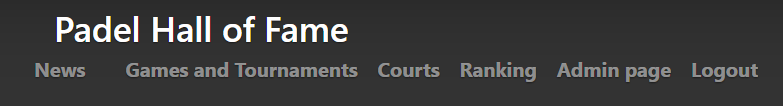
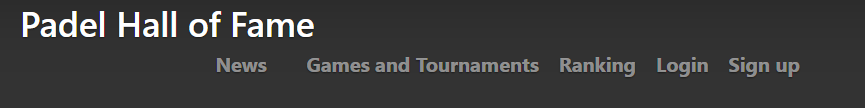
Fix documentation and style

Changed region(s): [[0.1533, 0.5094, 0.9808, 0.7925], [0.0, 0.0849, 0.4598, 0.3962], [0.0307, 0.5943, 0.1226, 0.7358]]

diff --git a/application/templates/tournaments/list.html b/application/templates/tournaments/list.html
@@ -32,16 +32,16 @@
        </form>
       </td>
       <td>
-        {% if 'Admin' in current_user.roles[0].name and current_user.id != tournament.account_id %}
+        {% if 'Admin' in current_user.roles[0].name %}
         <form method="POST" action="{{ url_for('tournaments_remove', tournament_id=tournament.id) }}">
           <input type="submit" value="Remove tournament"/>
         </form>
-        {% endif %}
-        {% endif %}
+        {% else %}
         {% if current_user.id == tournament.account_id and tournament.players|length != tournament.playerCount %}
         <form method="POST" action="{{ url_for('tournaments_remove', tournament_id=tournament.id) }}">
           <input type="submit" value="Remove tournament"/>
         </form>
+        {% endif %}
         {% endif %}
       </td>
       <td>
@@ -58,6 +58,7 @@
         {% endif %}
       </td>
     </tr>
+    {% endif %}
     {% endfor %}
   </table>
 {% endblock %}

diff --git a/application/templates/tournaments/single.html b/application/templates/tournaments/single.html
@@ -13,6 +13,11 @@
 
 <div id="divdefault" class="text-center">
   <h1>{{ tournament.name }}</h1>
+  <h2>Players joined</h2>
+  <p>{{ tournament.players|length }} / {{ tournament.playerCount }}</p>
+  {% for player in players %}
+  {{ player.name }}
+  {% endfor %}
   <h2>Games</h2>
   <table>
     <tr>

diff --git a/application/games/views.py b/application/games/views.py
@@ -32,12 +32,25 @@ def games_set_done(game_id):
 def games_set_score(game_id):
 
     form = GameResultForm(request.form)
-
     game = Game.query.get(game_id)
-    game.done = True
-    game.score1 = form.score1.data
-    game.score2 = form.score2.data
-    db.session().commit()
+    games = Game.query.all()
+    playerIds = Game.find_players_in_single_game(game_id)
+
+    if 'Admin' != current_user.roles[0].name:
+        if len(game.players) != game.playerCount or current_user.id not in playerIds:
+            return render_template("games/single.html", game = game, form = form, games=games)
+        else:
+            game.done = True
+            game.score1 = form.score1.data
+            game.score2 = form.score2.data
+            db.session().commit()
+    else:
+        if len(game.players) != game.playerCount:
+            return render_template("games/single.html", game = game, form = form, games=games)
+        game.done = True
+        game.score1 = form.score1.data
+        game.score2 = form.score2.data
+        db.session().commit()
   
     return redirect(url_for("games_index"))
 
@@ -46,12 +59,12 @@ def games_set_score(game_id):
 def games_join(game_id):
 
     game = Game.query.get(game_id)
-    
     user = User.query.get(current_user.id)
-    game.players.append(user)
 
-    db.session().add(game)
-    db.session().commit()
+    if len(game.players) != game.playerCount:
+        game.players.append(user)
+        db.session().add(game)
+        db.session().commit()
   
     return redirect(url_for("games_index"))
 
@@ -67,12 +80,20 @@ def games_view_game(game_id):
 
 
 @app.route("/games/<game_id>/remove", methods=["POST"])
-@adminlogin_required(role='Admin')
+@login_required
 def games_remove(game_id):
-
+    
     game = Game.query.get(game_id)
-    db.session().delete(game)
-    db.session().commit()
+
+    if current_user.id == game.account_id or 'Admin' == current_user.roles[0].name:
+        if len(game.players) != game.playerCount:
+            db.session().delete(game)
+            db.session().commit()
+            return redirect(url_for("games_index"))
+        if len(game.players) == game.playerCount and 'Admin' == current_user.roles[0].name:
+            db.session().delete(game)
+            db.session().commit()
+            return redirect(url_for("games_index"))
   
     return redirect(url_for("games_index"))
 
@@ -81,11 +102,12 @@ def games_remove(game_id):
 def game_leave(game_id):
 
     game = Game.query.get(game_id)
-
     user = User.query.get(current_user.id)
 
+    if len(game.players) == game.playerCount:
+        return redirect(url_for("games_index"))
+    
     game.players.remove(user)
-
     db.session().add(game)
     db.session().commit()
   

diff --git a/application/tournaments/views.py b/application/tournaments/views.py
@@ -21,8 +21,7 @@ def tournaments_index():
 @app.route("/tournaments/new/")
 @login_required
 def tournaments_form():
-    players = [2,4,8]
-    return render_template("tournaments/new.html", players = players, form = TournamentForm())
+    return render_template("tournaments/new.html", form = TournamentForm())
 
 @app.route("/tournaments/<tournament_id>/", methods=["GET"])
 @login_required
@@ -30,11 +29,9 @@ def tournaments_view_tournament(tournament_id):
 
     tournament = Tournament.query.get(tournament_id)
     tournamentGames = Tournament.find_games_in_tournament(tournament_id)
+    players = Tournament.find_players_in_single_tournament(tournament_id)
 
-    for game in tournamentGames:
-        print(game)
-
-    return render_template("tournaments/single.html", tournament = tournament, tournamentGames=tournamentGames)
+    return render_template("tournaments/single.html", tournament = tournament, tournamentGames=tournamentGames, players=players)
 
 
 @app.route("/tournaments/<tournament_id>/remove", methods=["POST"])
@@ -42,8 +39,16 @@ def tournaments_view_tournament(tournament_id):
 def tournaments_remove(tournament_id):
 
     tournament = Tournament.query.get(tournament_id)
-    db.session().delete(tournament)
-    db.session().commit()
+
+    if current_user.id == tournament.account_id or 'Admin' == current_user.roles[0].name:
+        if len(tournament.players) != tournament.playerCount:
+            db.session().delete(tournament)
+            db.session().commit()
+            return redirect(url_for("tournaments_index"))
+        if len(tournament.players) == tournament.playerCount and 'Admin' == current_user.roles[0].name:
+            db.session().delete(tournament)
+            db.session().commit()
+            return redirect(url_for("tournaments_index"))
   
     return redirect(url_for("tournaments_index"))
 

diff --git a/application/__init__.py b/application/__init__.py
@@ -102,37 +102,6 @@ try:
         user2.password = pw_hash
         user2.roles.append(admin_role)
         db.session().add(user2)
-        db.session().commit()
-    
-    else:
-        # Create default users
-        user1 = User('test user1')
-        user1.username = 'test_user1'
-        pw_hash = bcrypt.generate_password_hash('test').decode('utf-8')
-        user1.password = pw_hash
-        user1.roles.append(user_role)
-        db.session().add(user1)
-
-        user2 = User('test user2')
-        user2.username = 'test_user2'
-        pw_hash = bcrypt.generate_password_hash('test').decode('utf-8')
-        user2.password = pw_hash
-        user2.roles.append(admin_role)
-        db.session().add(user2)
-
-        user3 = User('test user3')
-        user3.username = 'test_user3'
-        pw_hash = bcrypt.generate_password_hash('test').decode('utf-8')
-        user3.password = pw_hash
-        user3.roles.append(user_role)
-        db.session().add(user3)
-
-        user4 = User('test user4')
-        user4.username = 'test_user4'
-        pw_hash = bcrypt.generate_password_hash('test').decode('utf-8')
-        user4.password = pw_hash
-        user4.roles.append(user_role)
-        db.session().add(user4)
         db.session().commit()"""
 except:
     pass

diff --git a/application/games/models.py b/application/games/models.py
@@ -68,6 +68,20 @@ class Game(Base):
 
         return response
 
+    @staticmethod
+    def find_players_in_single_game(gameid):
+        stmt = text("SELECT * FROM Game"
+                    " INNER JOIN game_players ON game_players.game_id = Game.id"
+                    " LEFT JOIN Account ON Account.id = game_players.account_id"
+                    " WHERE Game.id = :gameid").params(gameid=gameid)
+        res = db.engine.execute(stmt)
+
+        response = []
+        for row in res:
+            response.append(row[9])
+
+        return response
+
         #SELECT * FROM Game INNER JOIN game_players ON game_players.game_id = Game.id LEFT JOIN Account ON Account.id = game_players.account_id;
         #SELECT Game.id, COUNT(*) FROM Game INNER JOIN game_players ON game_players.game_id = Game.id LEFT JOIN Account ON Account.id = game_players.account_id GROUP BY Game.id;
         #SELECT COUNT(*) FROM Account INNER JOIN game_players ON game_players.account_id = Account.id LEFT JOIN Game ON Game.id = game_players.game_id WHERE Game.id = 1;

diff --git a/application/tournaments/models.py b/application/tournaments/models.py
@@ -60,6 +60,20 @@ class Tournament(Base):
         return response
     
     @staticmethod
+    def find_players_in_single_tournament(tournamentid):
+        stmt = text("SELECT * FROM Tournament"
+                    " INNER JOIN tournament_players ON tournament_players.tournament_id = Tournament.id"
+                    " LEFT JOIN Account ON Account.id = tournament_players.account_id"
+                    " WHERE Tournament.id = :tournamentid").params(tournamentid=tournamentid)
+        res = db.engine.execute(stmt)
+
+        response = []
+        for row in res:
+            response.append({"name":row[13]})
+
+        return response
+    
+    @staticmethod
     def find_games_in_tournament(tournamentid):
         stmt = text("SELECT * FROM Game"
                     " INNER JOIN tournament_games ON tournament_games.games_id = Game.id"

diff --git a/documentation/user_storyt.md b/documentation/user_storyt.md
@@ -4,48 +4,77 @@
 
 ### As a visitor, I want to be able to...
 
-  * Read news so that I can sign up for application and participate events. [x]
+  * Read news so that I can sign up for application and participate games or tournaments.
 
 ### As a visitor or user, I want to be able to...
 
-  * Read news so that I get information [x]
-  * See news author so I know who wrote the news [x]
+  * Read news so that I get information.
+  * See news author so I know who wrote the news.
 
 ### As an administrator, I want to be able to...
 
-  * Produce content for the home page in the form of news to make the home page interesting. [x]
-  * Edit the news so that incorrect information does not end up in the news [x]
+  * Produce content for the home page in the form of news to make the home page interesting.
+  * Edit the news so that incorrect information can be removed.
 
 ## Sign up
 
 ### As a visitor, I want to be able to...
 
-   * Sign up for the application so I participate events [x]
+   * Sign up for the application so I participate games or tournaments.
 
-## Events
+## Games
+
+### As a visitor, I want to be able to...
+
+  * Browse games list so that I can see if games are played.
 
 ### As a user, I want to be able to...
 
-  * Choose which events I participate in so I can participate. [x]
-  * Browse events to get information about another users' level. [x]
-  * Organize events so that I can play with friends or other users. [x]
-  * Cancel not yet full event I have organized if needed so that I do not organize unnecessary events. [x]
+  * Choose which game I participate in so I can participate.
+  * Browse games to get information about games open to join or games played.
+  * Add a new game so that I can play with other users.
+  * Remove not yet full game I have organized so that I do not organize unnecessary games.
+  * Set result to the game I have participated so that others know how the game ended.
+  * View single a game, so I know who played.
 
 ### As an administrator, I want to be able to...
 
-  * Change games results so that wrongful results can be corrected. [x]
-  * Cancel any event by removing it to ensure high quality events for users. [x]
+  * Change games result so that wrongful results can be corrected.
+  * Cancel any game by removing it to ensure high quality games for users.
+
+## Tournaments
+
+### As a visitor, I want to be able to...
+
+  * Browse games list so that I can see if games are played.
+
+### As a user, I want to be able to...
+
+  * Choose which tournament I participate in so I can participate.
+  * Browse tournament to get information about tournaments open to join.
+  * Add a new tournament so that I can play with other users.
+  * Remove not yet full tournament I have organized so that I do not organize unnecessary tournaments.
+  * Set results to the tournament game I have participated so that others know how the game ended.
+  * View single a tournament game, so I know who played.
+
+### As an administrator, I want to be able to...
+
+  * Change tournament game result so that wrongful results can be corrected.
+  * Cancel tournament by removing it to ensure high quality tournaments for users.
 
 ## Ranking
 
 ### As a visitor, I want to be able to...
 
-  * Browse through ranking so I can track the success of my friends. [x]
+  * Browse through ranking so I can see statistics.
+  * See players with zero games
 
 ### As a user, I want to be able to...
 
-  * I want to see my rank so that I can rate my skill level with other users. [x]
+  * I want to see how many games I have played so that I can compare my count to the count of other users.
+  * I want to see how many games played I have created so that I can compare my count to the count of other users.
+  * See players with zero games
 
 ## Only as an administrator, I want to be able to
 
-  * Remove users so that dishonest users don't spoil the experience of others [x]
+  * Remove users so that dishonest users don't spoil the experience of others.

diff --git a/documentation/user_instructions.md b/documentation/user_instructions.md
@@ -50,9 +50,9 @@ When you stop using the application, you can log out by pressing Logout in the n
 
 As sign up user you can create new game, user navbar to entry Add a game or Add a tournament page. Invent the game name and fill it in the game name field, select the number of players from dropdown form. When done click Add a new game / tournament.
 
-### Join or leave event
+### Join or leave game or tournament
 
-As sign up user you can you can join into a game or tournament. Browse games or tournaments, if you are qualified to join, join button is visible. If you are joined to an event and it is not confirmed, you can leave the event. After event is confirmed you cannot leave.
+As sign up user you can you can join into a game or tournament. Browse games or tournaments, if you are qualified to join, join button is visible. If you are joined to an game or a tournament and it is not full, you can leave the game or tournament. After the game or the tournament is full you cannot leave.
 
 ## Ranking and news
 
@@ -65,7 +65,8 @@ The upper type contains, in addition to its own rights, all the rights of the lo
 
 ### Admin 
 
-Admin can remove confirmed event or change result in any given time.
+Admin can remove any game or tournament.
+Admin can change any single game or tournament game result.
 
 Admin can remove user.
 

diff --git a/README.md b/README.md
@@ -32,7 +32,7 @@ Admin käyttäjät voivat peruskäyttäjien toimintojen lisäksi luoda sisältö
 
 ### Dokumentaatio
 
-[Tietokantakaavio](https://github.com/larikkai/PHoF/blob/master/documentation/Tietokantakaavio.jpg "Tietokantakaavio")
+[Tietokantakaavio](https://github.com/larikkai/PHoF/blob/master/documentation/database_diagram.jpg "Tietokantakaavio")
 
 [Käyttötapaukset](https://github.com/larikkai/PHoF/blob/master/documentation/user_storyt.md "Käyttötapaukset")
 
